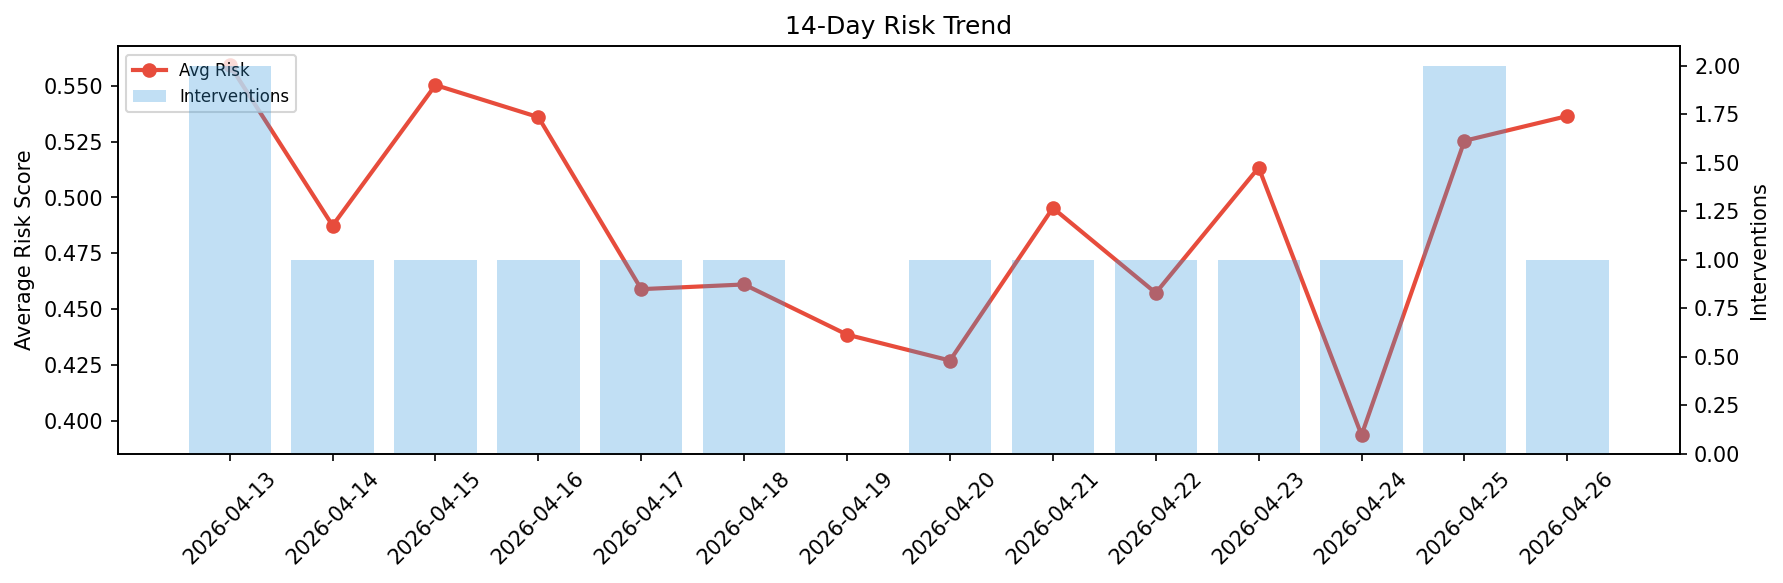
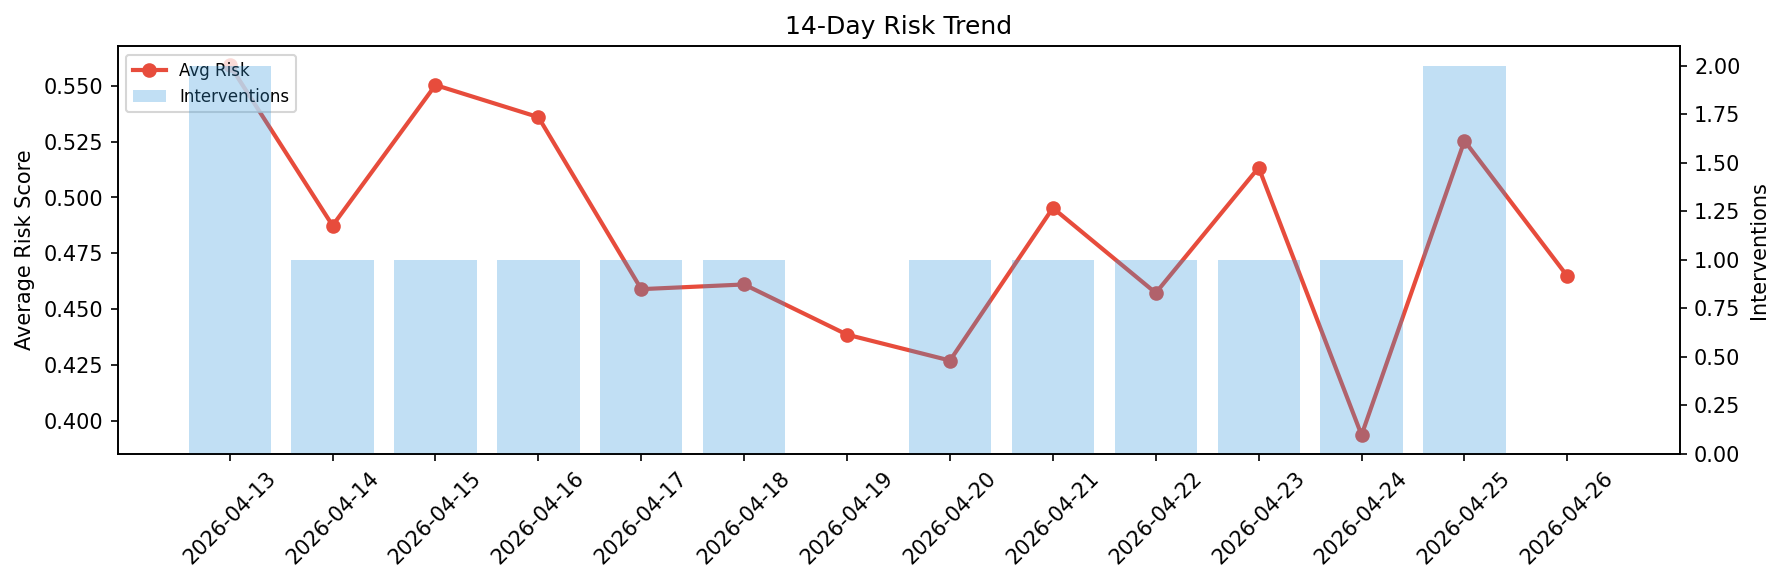
agent-improvement: daily cycle 2026-04-26T15:03

diff --git a/logs/2026-04-26.md b/logs/2026-04-26.md
@@ -1,6 +1,6 @@
 # Agent Improvement Report — 2026-04-26
 
-**Cycle ID:** `48c8a366` | **Avg Risk:** 0.5365 | **Interventions:** 1/4
+**Cycle ID:** `a60b21c0` | **Avg Risk:** 0.4647 | **Interventions:** 0/4
 
 ![Dashboard](2026-04-26_dashboard.png)
 
@@ -10,18 +10,18 @@
 
 | Domain | Risk Score | Decision | Alerts |
 |--------|-----------|----------|--------|
-| code_review | 0.4205 | monitor | none |
-| incident_response | 0.8669 | intervene | severity, blast_radius |
-| data_pipeline | 0.2986 | monitor | none |
-| deployment | 0.5602 | monitor | latency_p99 |
+| code_review | 0.3475 | monitor | none |
+| incident_response | 0.4676 | monitor | blast_radius |
+| data_pipeline | 0.5561 | monitor | schema_drift |
+| deployment | 0.4878 | monitor | canary_error |
 
 ## Delta vs Yesterday
 
 | Domain | Today | Yesterday | Change |
 |--------|-------|-----------|--------|
-| code_review | 0.4205 | 0.4513 | 📉 -6.8% |
-| incident_response | 0.8669 | 0.6719 | 📈 29.0% |
-| data_pipeline | 0.2986 | 0.6323 | 📉 -52.8% |
-| deployment | 0.5602 | 0.3463 | 📈 61.8% |
+| code_review | 0.3475 | 0.4513 | 📉 -23.0% |
+| incident_response | 0.4676 | 0.6719 | 📉 -30.4% |
+| data_pipeline | 0.5561 | 0.6323 | 📉 -12.1% |
+| deployment | 0.4878 | 0.3463 | 📈 40.9% |
 
 **Refinement:** `{'adjustment': 'tighten_thresholds', 'trend': 'degrading', 'window': 4}`
